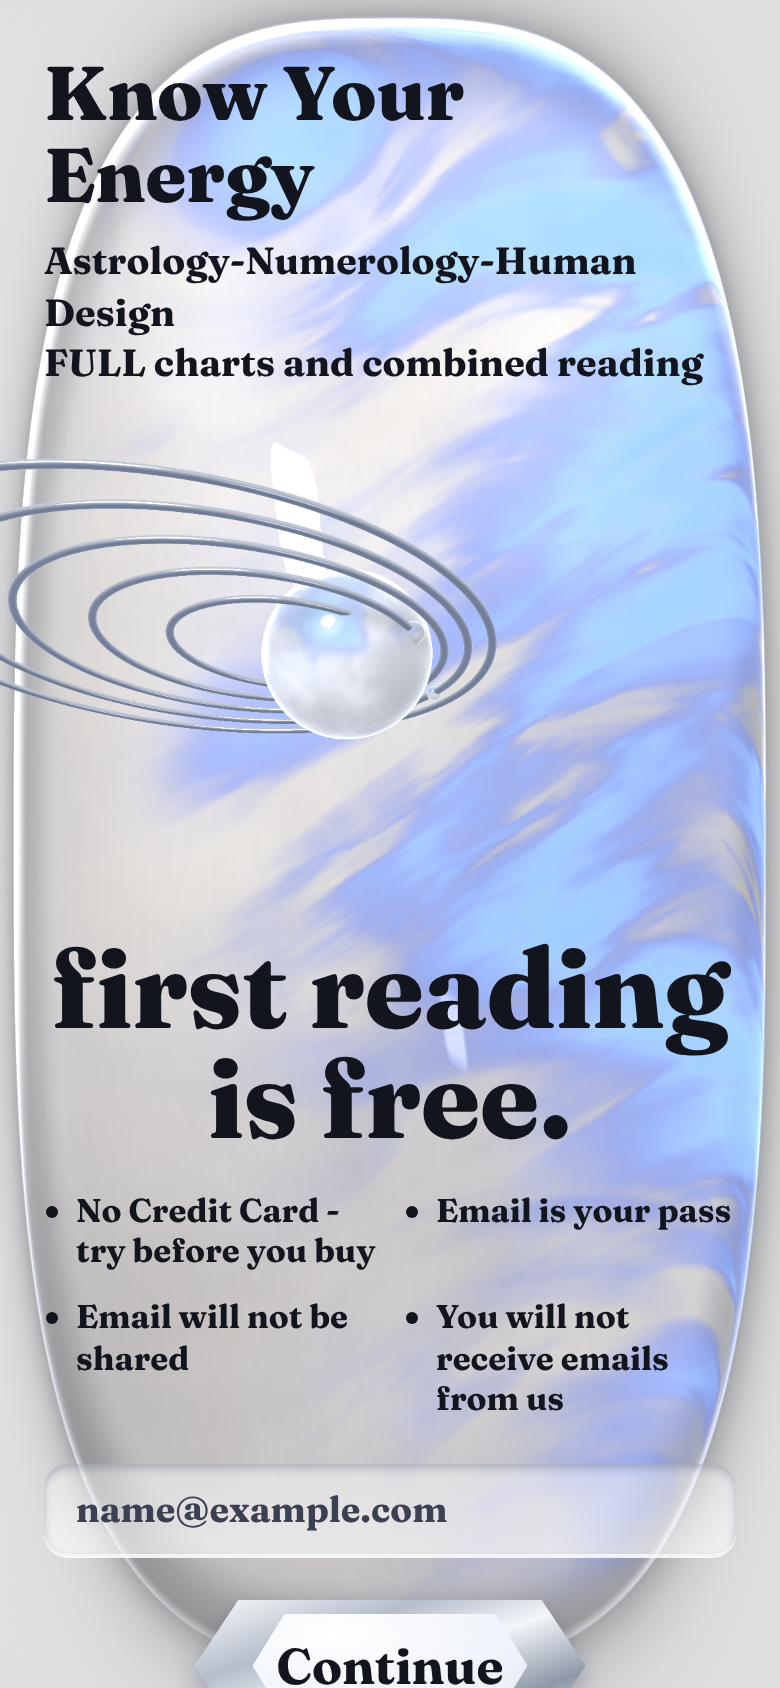
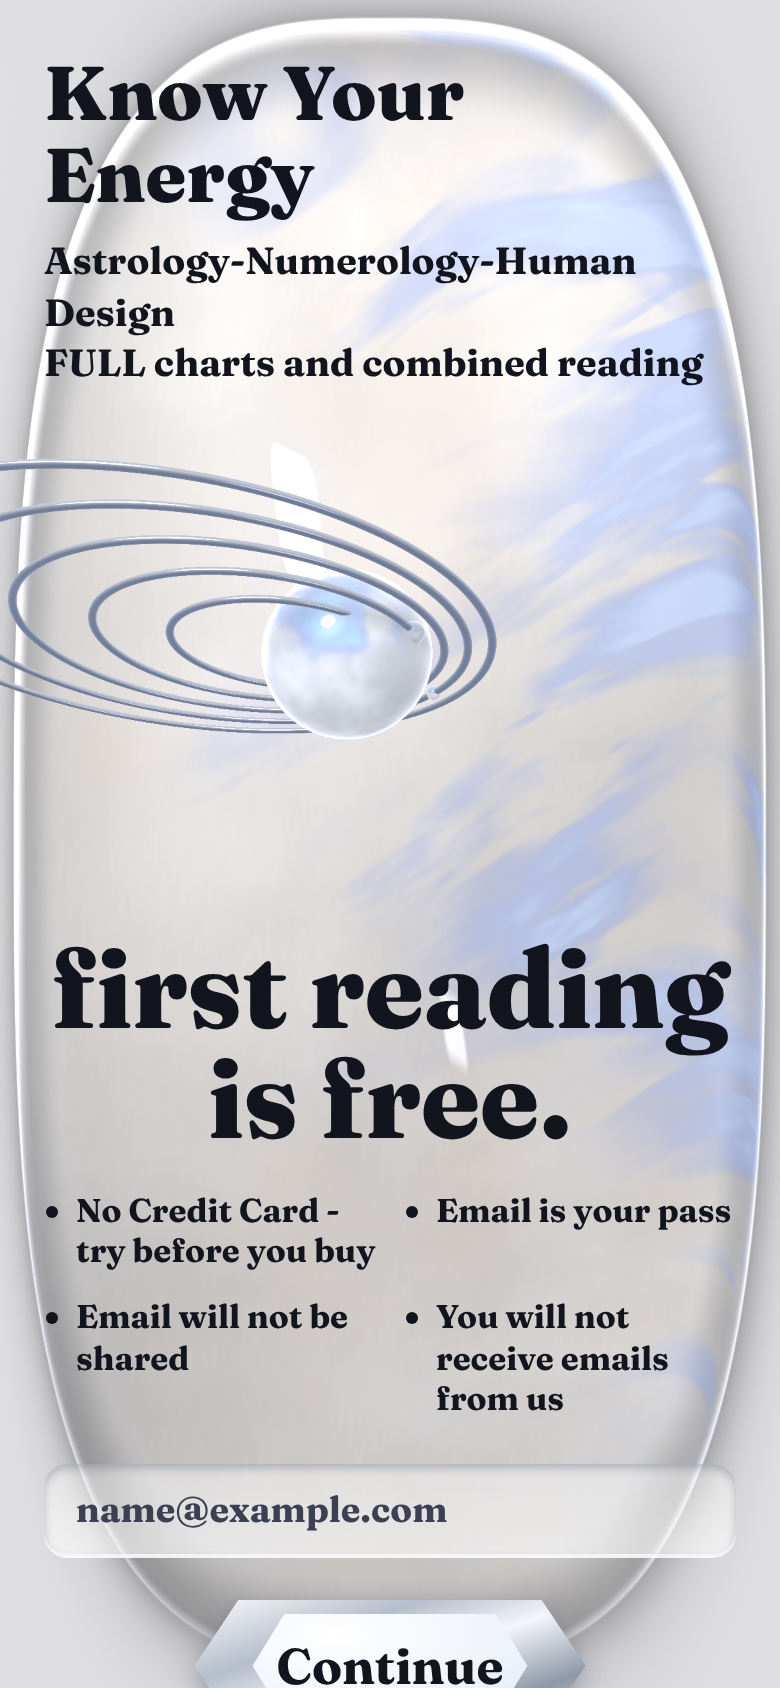
Moonstone: much calmer blue, milky translucent body; front page screens on it
Claude-Session: https://claude.ai/code/session_01DRAcaZvypgnSaCTMdJvvGx

Changed region(s): [[0.1846, 0.0, 0.9846, 0.8934]]

diff --git a/stone/stone.html b/stone/stone.html
@@ -51,9 +51,9 @@ void main(){
       vec3 w=vec3(fbm(pos*vec3(2.2,2.2,3.)+3.),fbm(pos*vec3(2.2,2.2,3.)+9.),0.)-.5;
       vec3 pn=normalize(vec3(.34,.22,.91)+vec3(w.xy*.55,0.));
       float al=max(dot(pn,Hn),0.);
-      vec2 ar=vec2(pos.x*.80+pos.y*.60,-pos.x*.60+pos.y*.80);float bound=smoothstep(.47,.60,fbm(vec3(ar*vec2(2.2,11.),pos.z*5.)+17.));       // sheet with a real edge
-      float s=pow(al,150.)*bound;
-      blue+=trans*s*.55;
+      vec2 ar=vec2(pos.x*.80+pos.y*.60,-pos.x*.60+pos.y*.80);float bound=smoothstep(.52,.64,fbm(vec3(ar*vec2(2.2,11.),pos.z*5.)+17.));       // sheet with a real edge
+      float s=pow(al,240.)*bound;
+      blue+=trans*s*.38;
       silver+=trans*pow(al,14.)*smoothstep(.5,.75,fbm(pos*vec3(5.,5.,6.)+31.))*.02;
       float c=smoothstep(.45,.80,fbm(vec3(ar*vec2(4.,12.),pos.z*4.)+5.));
       cloud+=trans*c*.12;trans*=exp(-c*.10);
@@ -61,17 +61,19 @@ void main(){
     // fine grain (irregular, low contrast) so the interior reads as crystal not haze
     float grain=vn(vec3(p*vec2(310.,70.),2.))*.5+vn(vec3(p*vec2(160.,38.),7.))*.5;
     vec3 body=vec3(.925,.905,.885)*(.985+.015*grain);
-    body=mix(body,vec3(.80,.80,.82),clamp(cloud,0.,1.)*.38);
+    body=mix(body,vec3(.80,.80,.82),clamp(cloud,0.,1.)*.34);
+    float wm=smoothstep(.45,.75,fbm(vec3(p*2.2,4.)));body=mix(body,vec3(.95,.90,.84),wm*.35);
     float dif=clamp(dot(N,Ld)*.7+.45,0.,1.);body*=.61+.34*dif;
     body*=.88+.14*smoothstep(-.4,.5,(-p.x+p.y)*1.1);
     // thin edge: glassy, takes on the surface colour and a darker total-internal-reflection ring
     float rim=smoothstep(.72,1.,d);
     body=mix(body,bgc*.88,rim*rim*.38);
     body*=1.-.22*smoothstep(.88,.985,d)*(1.-smoothstep(.985,1.,d));
-    float bl=min(1.-exp(-blue*2.4),.96);
-    vec3 deep=vec3(.06,.22,.95),lite=vec3(.48,.68,1.);
+    blue*=1.-smoothstep(.0,1.,1.-length(p-vec2(-.14,.915))/.16);
+    float bl=min(1.-exp(-blue*2.0),.62);
+    vec3 deep=vec3(.30,.46,.92),lite=vec3(.74,.85,1.);
     vec3 bc=mix(deep,lite,smoothstep(.15,.85,bl));
-    vec3 c=mix(body,bc,bl*.90)+bc*bl*.08+vec3(.95,.97,1.)*silver;
+    vec3 c=mix(body,bc,bl*.85)+vec3(.95,.97,1.)*silver;
     // polished surface
     vec3 r=reflect(-V,N);float F=.045+.955*pow(1.-max(dot(N,V),0.),5.);
     c+=env(r)*(F*1.0+.05)*vec3(.98,.99,1.);
